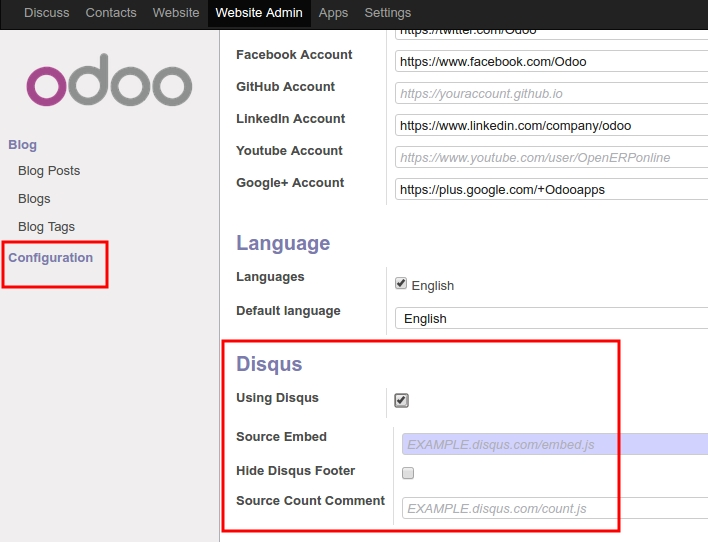
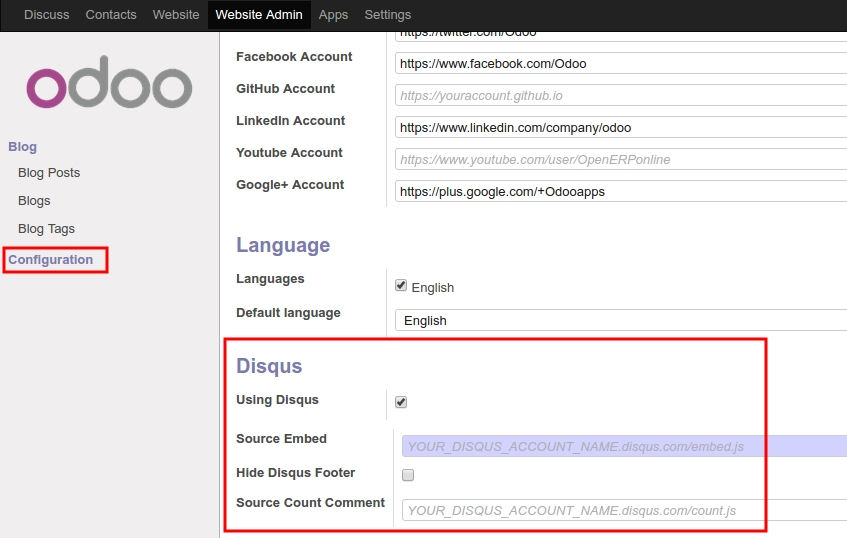
[IMP] update readme.rst

diff --git a/website_blog_disqus/README.rst b/website_blog_disqus/README.rst
@@ -29,17 +29,20 @@ Configuration
 ============
 
 Create your Disqus account at: https://disqus.com/
+-------------------------------------------------
 
 Get your universal code at: https://disqus.com/admin/universalcode/
-
+------------------------------------------------------------------
+|
 .. figure:: universal_code.jpg
    :scale: 80 %
    :alt: Get disqus Universal Code
-
-
+|
+Actually you just need remember your disqus_account
+|
 Config with Odoo
-
-
+---------------
+|
 .. figure:: config.jpg
    :scale: 80 %
    :alt: Config Disqus with your disqus account
